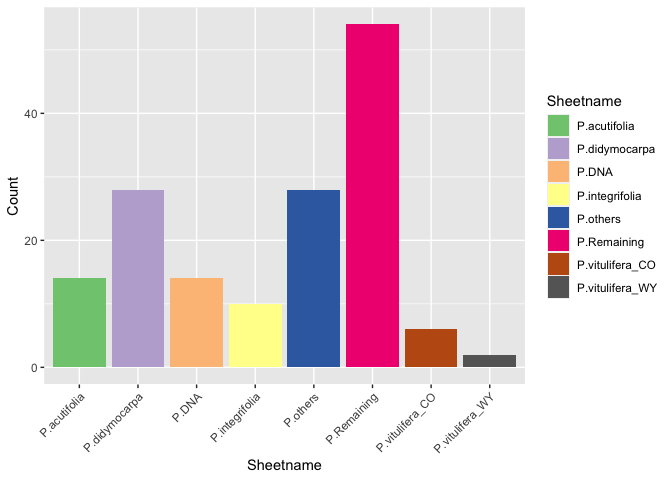
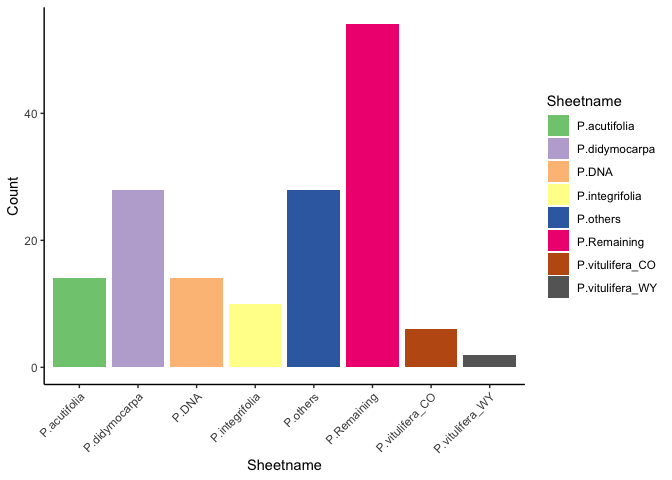
Add classic theme to appendix entry plot

diff --git a/Appendix/README.md b/Appendix/README.md
@@ -27,6 +27,7 @@ missing_appendixes <- purrr::map_dfr(
 ggplot(data = missing_appendixes) +
   geom_bar(aes(x = sheetname, fill = sheetname)) +
   scale_fill_brewer("Sheetname", type = "qual") +
+  theme_classic() +
   theme(axis.text.x = element_text(angle = 45, hjust = 1)) +
   labs(x = "Sheetname", y = "Count")
 ```
